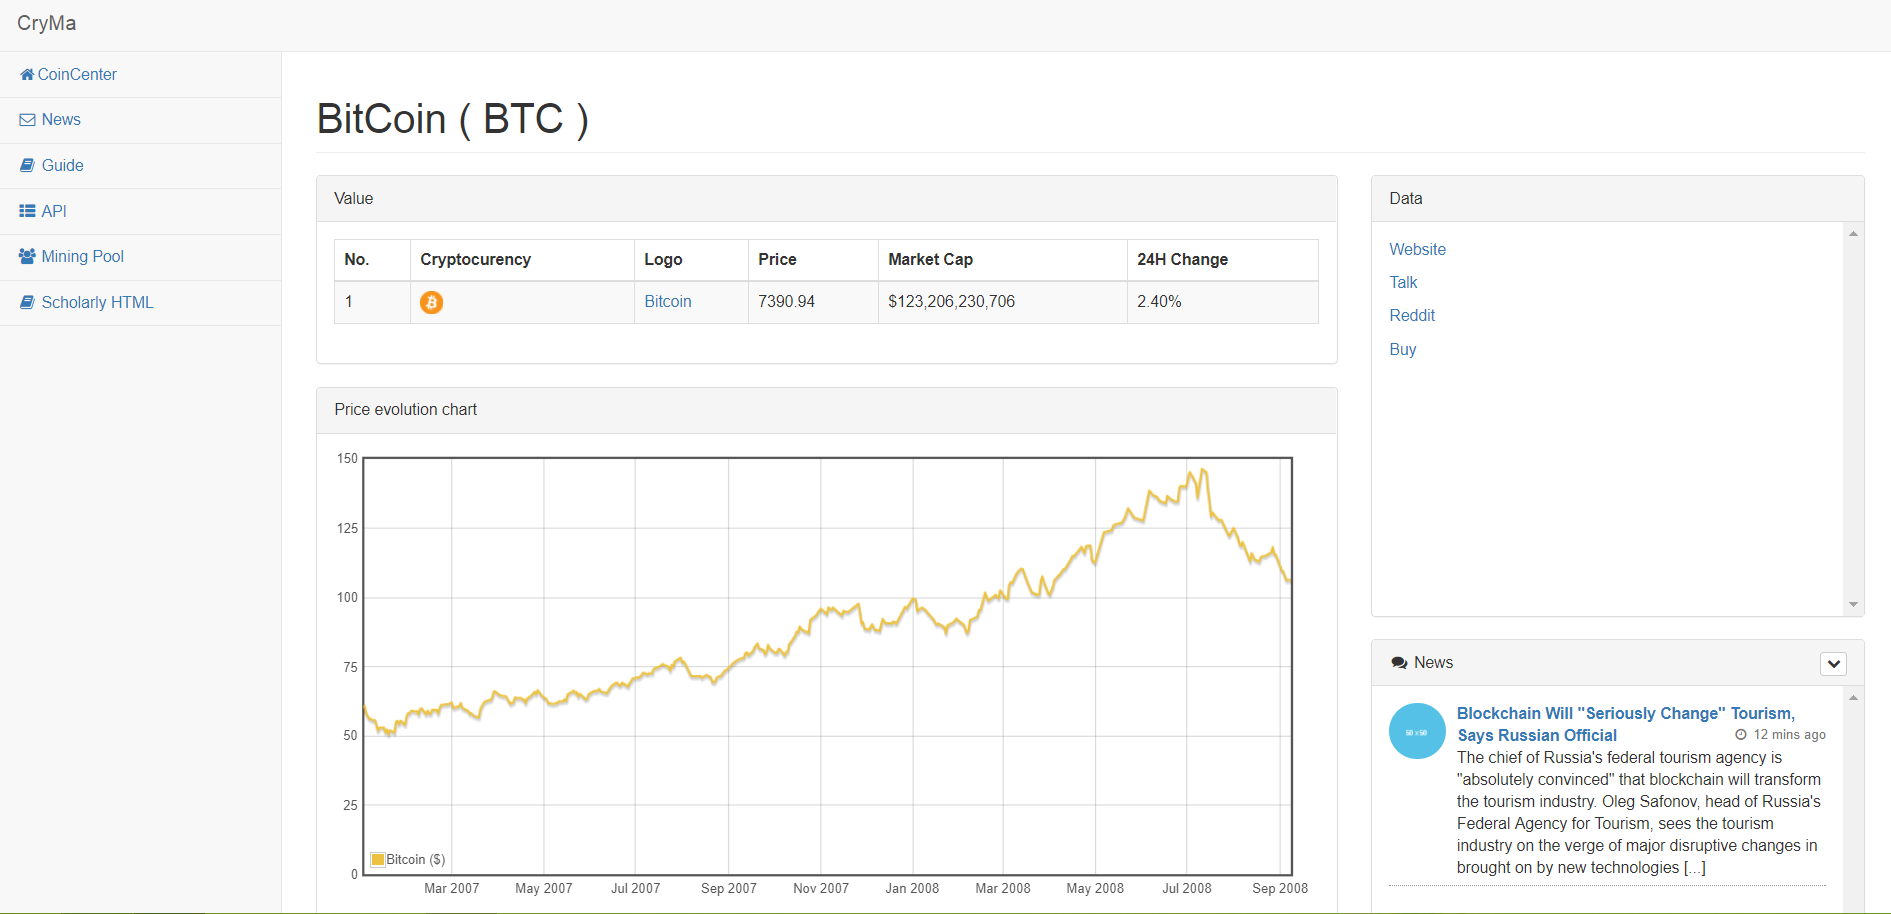
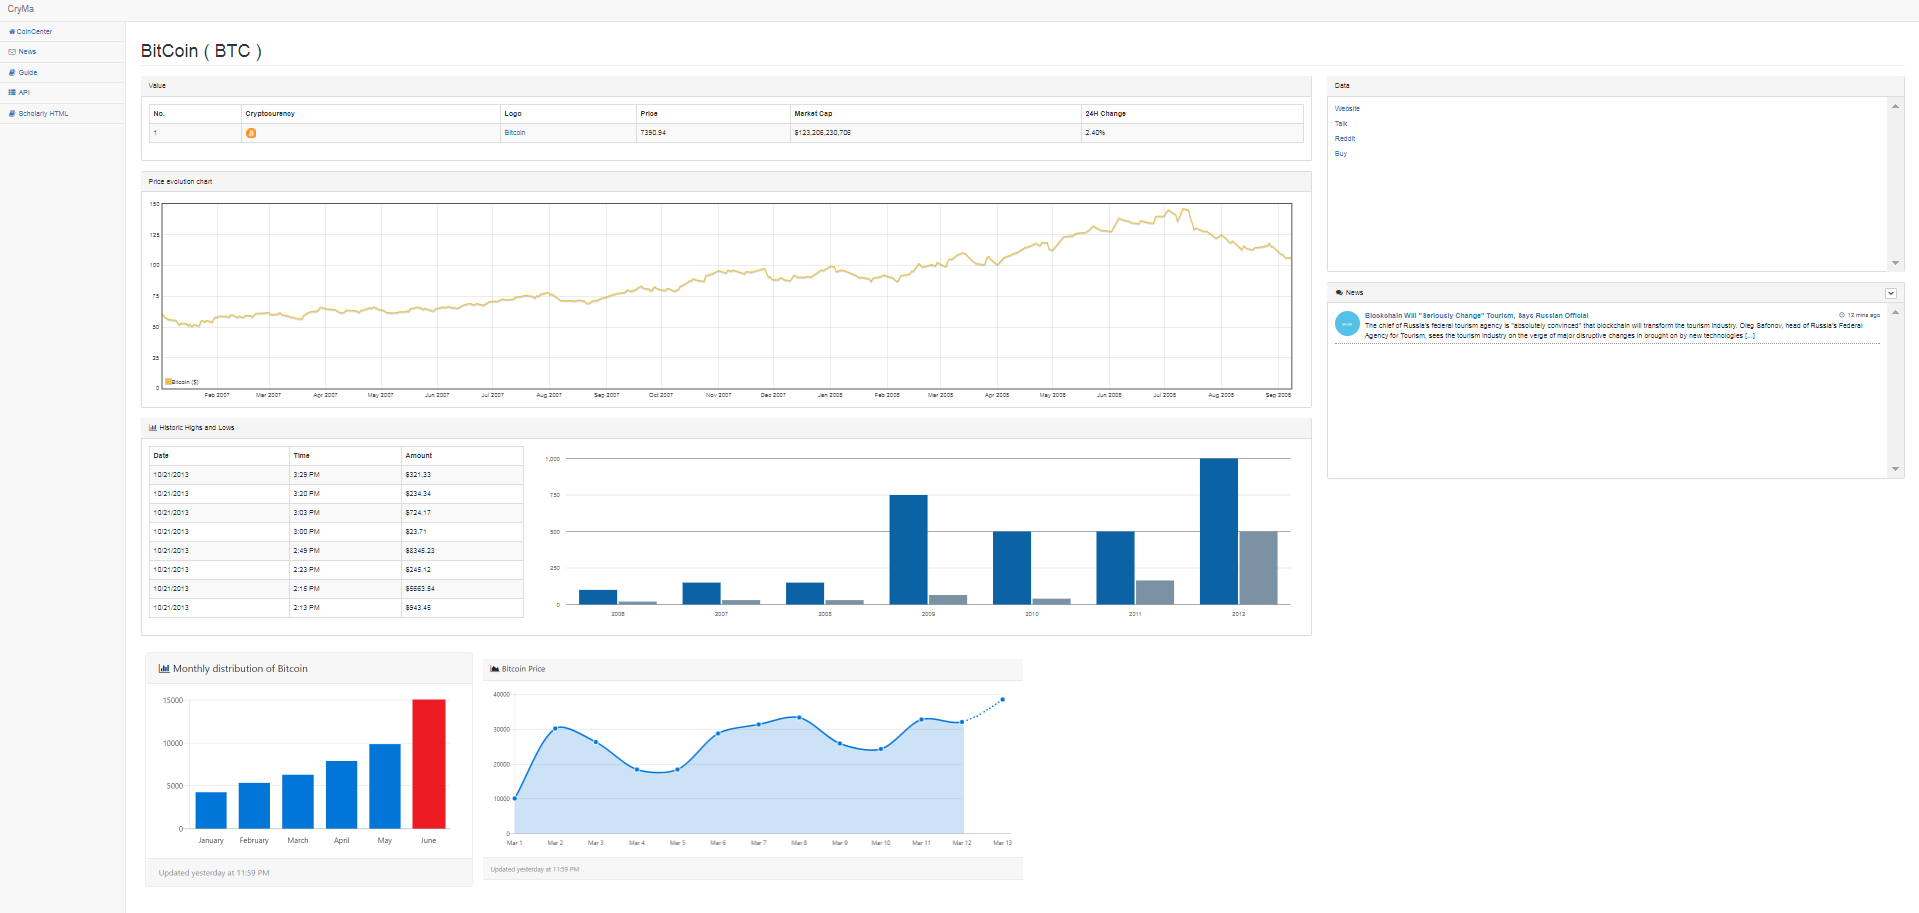
Scholarly html

diff --git a/Front-End/pages/scholarly.html b/Front-End/pages/scholarly.html
@@ -52,7 +52,7 @@
       </section>
 
       <section typeof="sa:Abstract" id="abstract">
-        <h2>Abstract</h2>
+        <h2>1 Abstract</h2>
         <p>
           CryMa, short for Cryptocurrency Manager, is an online application
 		  with the purpose of managing cryptocurrency  information. The website
@@ -64,7 +64,7 @@
       </section>
 	  
       <section typeof="sa:MaterialsAndMethods" id="motivation">
-        <h2>Motivation</h2>
+        <h2>2 Motivation</h2>
         <p>
           The world of today grows one's need to adapt to a faster tomorrow, thus it is critical
 		  that everybody gets information with as little delay as possible. 
@@ -81,7 +81,7 @@
       </section>
 	  
         <section typeof="sa:MaterialsAndMethods" id="features">
-            <h1>Features</h1>
+            <h1>3 Features</h1>
 			<p>
 				The website wishes to provide the following big features :
 			</p>
@@ -117,17 +117,17 @@
         </section>
 		
 		<section typeof="sa:MaterialsAndMethods" id="architecture">
-		    <h1>Architecture</h1>
+		    <h1>4 Architecture</h1>
 			<p>
 				In this section the application architecture will be presented, as it is a key application feature.
 			</p>
 			<h3>
-				Microservices architecture
+				4.1 Microservices architecture
 			</h3>
 			<figure typeof="sa:Image">
 			  <img src="../scholarly/UML/micro-services.png" >	
 			  <figcaption>
-				Microservices architecture
+				Microservices architecture ( figure 1 )
 			  </figcaption>
 			</figure>
 			<p>
@@ -143,7 +143,7 @@
 					so that every service is up to date and has a source of information</li>
 			</ul>
 			<h3>
-				Class Diagram
+				4.2 Class Diagram
 			</h3>
 			<p>
 				For each microservice a class diagram has been made, in order to fully detail the system.
@@ -151,39 +151,45 @@
 			<figure typeof="sa:Image">
 			  <img src="..//scholarly/UML//coinconvertion class diagram.png" >	
 			  <figcaption>
-				Coin Conversion Class Diagram
+				Coin Conversion Class Diagram ( figure 2 )
 			  </figcaption>
 			</figure>
 			<figure typeof="sa:Image">
 			  <img src="..//scholarly/UML//news class diagram.png" >	
 			  <figcaption>
-				News Class Diagram
+				News Class Diagram ( figure 3 )
 			  </figcaption>
 			</figure>
 			<figure typeof="sa:Image">
 			  <img src="..//scholarly/UML//classPlot.PNG" >	
 			  <figcaption>
-				Plot Class Diagram
+				Plot Class Diagram ( figure 4 )
+			  </figcaption>
+			</figure>
+			<figure typeof="sa:Image">
+			  <img src="..//scholarly/UML//cointology class diagram.PNG" >	
+			  <figcaption>
+				Cointology Class Diagram ( figure 5 )
 			  </figcaption>
 			</figure>
 		</section>
 		
 		<section typeof="sa:MaterialsAndMethods" id="use_case">
-		    <h1>Use-Case</h1>
+		    <h1>5 Use-Case</h1>
 			<p>
 				Describing the use-case, a diagram is best suited, thus possible interactions
-				with the system are described as seen below :
+				with the system are described as seen below.
 			</p>
 			<figure typeof="sa:Image">
 			  <img src="..//scholarly/UML//usecase.PNG" >	
 			  <figcaption>
-				Use-Case Diagram
+				Use-Case Diagram ( figure 6 )
 			  </figcaption>
 			</figure>
 		</section>
 		
 		<section typeof="sa:MaterialsAndMethods" id="activity">
-		    <h1>Activity Diagram</h1>
+		    <h1>6 Activity Diagram</h1>
 			<p>
 				To further clarify, the activity diaram
 				describes the dynamic aspects of the system,
@@ -192,13 +198,13 @@
 			<figure typeof="sa:Image">
 			  <img src="..//scholarly/UML//activity diagram.png" >	
 			  <figcaption>
-				Activity Diagram
+				Activity Diagram ( figure 7 )
 			  </figcaption>
 			</figure>
 		</section>
 		
 		<section typeof="sa:MaterialsAndMethods" id="modelling">
-		    <h1>Front-End</h1>
+		    <h1>7 Front-End</h1>
 			<p>
 				Besides using the classic 
 				<a property="schema:citation" href="https://www.w3.org/Style/CSS/Overview.en.html">CSS</a> and 
@@ -208,7 +214,7 @@
 				ease the development process and to decouple the "smart" front-end from the cloud based, REST back-end.	
 			</p>
 			<h3>
-				Mocks
+				7.1 Mocks
 			</h3>
 			<p>
 				As with every application, the first thing the user sees is the main page, so with use
@@ -218,7 +224,7 @@
 			<figure typeof="sa:Image">
 			  <img src="../scholarly/Photos/first_page_top_chart.png" >	
 			  <figcaption>
-				Top currency table
+				Top currency table ( figure 8 )
 			  </figcaption>
 			</figure>
 			<p>
@@ -233,7 +239,7 @@
 			<figure typeof="sa:Image">
 			  <img src="../scholarly/Photos/first_page_distribution.PNG" >	
 			  <figcaption>
-				Distribution in percentage of the top cryptocurrencies
+				Distribution in percentage of the top cryptocurrencies ( figure 9 )
 			  </figcaption>
 			</figure>
 			<p>
@@ -248,7 +254,7 @@
 			<figure typeof="sa:Image">
 			  <img src="../scholarly/Photos/bitcoin_distribution.PNG" >	
 			  <figcaption>
-				Evolution price graph
+				Evolution price graph ( figure 10 )
 			  </figcaption>
 			</figure>
 			<p>
@@ -263,7 +269,7 @@
 			<figure typeof="sa:Image">
 			  <img src="../scholarly/Photos/bitcoin_distribution_prediction.PNG" >	
 			  <figcaption>
-				Evolution price graph with prediction
+				Evolution price graph with prediction ( figure 11 )
 			  </figcaption>
 			</figure>
 			<p>
@@ -276,7 +282,7 @@
 			<figure typeof="sa:Image">
 			  <img src="../scholarly/Photos/bitcoin_distribution_mothly.PNG" >	
 			  <figcaption>
-				Mothly prive average
+				Mothly prive average ( figure 12 )
 			  </figcaption>
 			</figure>
 			<p>
@@ -287,7 +293,7 @@
 			<figure typeof="sa:Image">
 			  <img src="../scholarly/Photos/bitcoin_distribution_mothly_prediction.PNG" >	
 			  <figcaption>
-				Mothly prive average with prediction
+				Mothly prive average with prediction ( figure 13 )
 			  </figcaption>
 			</figure>
 			<p>
@@ -300,7 +306,7 @@
 			<figure typeof="sa:Image">
 			  <img src="../scholarly/Photos/first_page_currency.PNG" >	
 			  <figcaption>
-				Currency Calculator
+				Currency Calculator ( figure 14 )
 			  </figcaption>
 			</figure>
 			<p>
@@ -319,14 +325,14 @@
 			<figure typeof="sa:Image">
 			  <img src="../scholarly/Photos/top_news.PNG" >	
 			  <figcaption>
-				Top news
+				Top news ( figure 15 )
 			  </figcaption>
 			</figure>
 			<figure typeof="sa:Image">
 			  <img src="../scholarly/Photos/first_page.PNG" >	
 			  <figcaption>
-				First page complete mock
-			  </figcaption>
+				First page complete mock ( figure 16 )
+			  </figcaption> 
 			</figure>
 			<p>
 				The first page embodies all the features described in the 
@@ -337,7 +343,7 @@
 			<figure typeof="sa:Image">
 			  <img src="../scholarly/Photos/coin_p1.PNG" >	
 			  <figcaption>
-				Cryptocurrency page
+				Cryptocurrency page ( figure 17 )
 			  </figcaption>
 			</figure>
 			<p>
@@ -348,7 +354,7 @@
 		</section>
 			
 		<section typeof="sa:MaterialsAndMethods" id="back_end">
-		    <h1>Back-End</h1>
+		    <h1>8 Back-End</h1>
 			<p>
 				The back-end application will be written in <a property="schema:citation" href="https://www.java.com/en/">Java</a>  
 				using the <a property="schema:citation" href="https://projects.spring.io/spring-boot/">Spring Boot Framework</a>.
@@ -402,9 +408,9 @@
 		</section>
 		
 		<section typeof="sa:MaterialsAndMethods" id="modelling">
-			<h1>Modelling And Prediction
+			<h1>9 Modelling And Prediction
 			</h1>
-			<h3>Prediction</h3>
+			<h3>9.1 Prediction</h3>
 			<p>
 				The predictions about the monetary value of the cryptocurrencies will be a feature of the application.
 				These predictions will be made by machine learning algorithms based on the historical data
@@ -415,7 +421,7 @@
 			</p>
 			<p>
 			    Since the historical data of a coin
-				is a sequence, we will use a recurrent neural network, which is specialised for sequences,
+				is a sequence, the algorithm will use a recurrent neural network, which is specialised for sequences,
 				more specifically, a 
 				<a property="schema:citation" href="http://www.bioinf.jku.at/publications/older/2604.pdf">Long Short Term Memory architecture</a>.
 				Neural networks are a great candidate for this task because they have a great
@@ -429,7 +435,7 @@
 				task </a> and <a property="schema:citation" href="https://www.ijsr.net/archive/v6i4/ART20172755.pdf">
 				Predicting Stock Prices Using LSTM </a>.
 		    </p>
-			<h3>Modelling</h3>
+			<h3>9.2 Modelling</h3>
 			<p>
 				Studying the <a property="schema:citation" href="https://doacc.github.io/concepts/doacc-owl.html">DOACC</a>
 				and  <a property="schema:citation" href="https://doacc.github.io/concepts/ccy-owl.html">CCY</a>
@@ -440,13 +446,24 @@
 			<figure typeof="sa:Image">
 			  <img src="../scholarly/UML/coin_model.PNG" >	
 			  <figcaption>
-				First page complete mock
+				First page complete mock ( figure 18 )
 			  </figcaption>
 			</figure>
 			<p>
 				This eases the class modelling that was done for the 
 				<a property="schema:citation" href="https://app.swaggerhub.com/apis/cipriancus1/CryMa/1.0.0#/">OpenAPI</a>.
 			</p>
+		</section>
+		<section typeof="sa:MaterialsAndMethods" id="conclusion">
+		<h1>10 Conclusion
+		</h1>
+		<p>
+			To conclude the technical paper, CryMa takes advantage of many modern technologies mentioned above
+			( i.e : <a property="schema:citation" href="http://microservices.io/">Microservices</a>,
+			<a property="schema:citation" href="https://www.w3.org/TR/owl-features/">OWL</a> and so on )
+			in order to create a smart application with input from many sources so that users receive
+			realtime information to make the best business decisions.
+		</p>
 		</section>
     </article>
   </body>

diff --git a/Front-End/pages/bitcoin.html b/Front-End/pages/bitcoin.html
@@ -117,26 +117,7 @@
 					
 					<div class="panel panel-default">
                         <div class="panel-heading">
-                            <i class="fa fa-bar-chart-o fa-fw"></i> Bar Chart Example
-                            <div class="pull-right">
-                                <div class="btn-group">
-                                    <button type="button" class="btn btn-default btn-xs dropdown-toggle" data-toggle="dropdown">
-                                        Actions
-                                        <span class="caret"></span>
-                                    </button>
-                                    <ul class="dropdown-menu pull-right" role="menu">
-                                        <li><a href="#">Action</a>
-                                        </li>
-                                        <li><a href="#">Another action</a>
-                                        </li>
-                                        <li><a href="#">Something else here</a>
-                                        </li>
-                                        <li class="divider"></li>
-                                        <li><a href="#">Separated link</a>
-                                        </li>
-                                    </ul>
-                                </div>
-                            </div>
+                            <i class="fa fa-bar-chart-o fa-fw"></i> Historic Highs and Lows
                         </div>
                         <!-- /.panel-heading -->
                         <div class="panel-body">

diff --git a/Front-End/data/bar-data.js b/Front-End/data/bar-data.js
@@ -4,31 +4,31 @@ $(function() {
         data: [{
             y: '2006',
             a: 100,
-            b: 90
+            b: 20
         }, {
             y: '2007',
-            a: 75,
-            b: 65
+            a: 150,
+            b: 30
         }, {
             y: '2008',
-            a: 50,
-            b: 40
+            a: 150,
+            b: 30
         }, {
             y: '2009',
-            a: 75,
+            a: 750,
             b: 65
         }, {
             y: '2010',
-            a: 50,
+            a: 500,
             b: 40
         }, {
             y: '2011',
-            a: 75,
-            b: 65
+            a: 500,
+            b: 165
         }, {
             y: '2012',
-            a: 100,
-            b: 90
+            a: 1000,
+            b: 500
         }],
         xkey: 'y',
         ykeys: ['a', 'b'],
